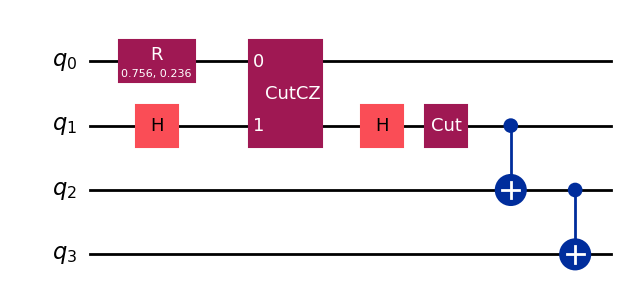
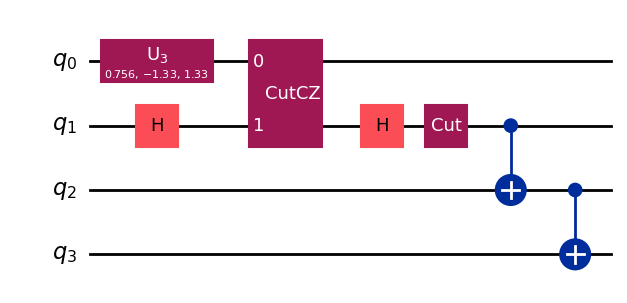
documentation

Changed region(s): [[0.1515, 0.1188, 0.3636, 0.297]]

diff --git a/docs/GateCuts.rst b/docs/GateCuts.rst
@@ -1,18 +1,19 @@
 Gate cuts
 =========
 
-Gate cuts can be used to cut multi-qubit gates instead of cutting wires. This is done by inserting special gate cut instructions into the circuit.
-Currently only CZ gate cuts are supported so special care needs to be taken to transform other gates into CZ gates before inserting the cuts.
+Gate cuts can be used to cut two-qubit gates instead of cutting wires. This is done by inserting special gate cut instructions into the circuit.
+Currently only CZ gate cuts are supported so all cut gates get transformed into cut CZ gates with appropriate transpilation.
 
 .. code:: python
+   from qiskit.circuit.library import CXGate
+   from qiskit import QuantumCircuit
+   from QCut import cutGate
 
    cut_circuit = QuantumCircuit(3)
    cut_circuit.h(0)
-   cut_circuit.h(1)
-   cut_circuit.append(cutCZ, [0,1])
-   cut_circuit.h(1)
+   cut_circuit.append(**cutGate(CXGate(), 0, 1)) 
    cut_circuit.cx(1,2)
 
-   cut_circuit.draw("mpl")
+   cut_circuit.decompose(["CutGate"]).draw("mpl")
 
 After this the circuit can be processed as usual with QCut (take a look at the Usage documentation for more details).

diff --git a/README.md b/README.md
@@ -69,7 +69,7 @@ uv sync
 
 ```python
 import QCut as ck
-from QCut import cut, cutCZ
+from QCut import cut, cutGate
 from qiskit import QuantumCircuit
 from qiskit_aer import AerSimulator
 from qiskit_aer.primitives import Estimator
@@ -98,13 +98,13 @@ circuit.draw("mpl")
 Note that here we don't insert any measurements. Measurements will be automatically handled by QCut.
 
 ```python
+from qiskit.circuit.library import CXGate
+
 cut_circuit = QuantumCircuit(4)
 
 mult = 1.635
 cut_circuit.r(mult*0.46262, mult*0.1446, 0)
-cut_circuit.h(1)
-cut_circuit.append(cutCZ, [0,1])
-cut_circuit.h(1)
+cut_circuit.append(**cutGate(CXGate(), 0, 1)) 
 cut_circuit.append(cut, [1])
 cut_circuit.cx(1,2)
 cut_circuit.cx(2,3)
@@ -112,7 +112,7 @@ cut_circuit.cx(2,3)
 cut_circuit.draw("mpl")
 ```
 
-**Note** that currently QCut only supports cutting Cz gates so transformation have to be done manually for the time being (hence the added H gates)
+**Note** that currently QCut only supports cutting Cz gates so cut gates get transpiled down to cutCZ gates (hence the added H gates)
 
 
 ![](./docs/_static/images/circ2.png)

diff --git a/docs/Usage.rst b/docs/Usage.rst
@@ -41,7 +41,7 @@ Basic usage
 .. code:: python
 
    import QCut as ck
-   from QCut import cut, cutCZ
+   from QCut import cut, cutGate
    from qiskit import QuantumCircuit
    from qiskit_aer import AerSimulator
    from qiskit_aer.primitives import Estimator
@@ -71,14 +71,14 @@ Note that here we don’t insert any measurements. Measurements will be
 automatically handled by QCut.
 
 .. code:: python
+   
+   from qiskit.circuit.library import CXGate
 
    cut_circuit = QuantumCircuit(4)
 
    mult = 1.635
    cut_circuit.r(mult*0.46262, mult*0.1446, 0)
-   cut_circuit.h(1)
-   cut_circuit.append(cutCZ, [0,1])
-   cut_circuit.h(1)
+   cut_circuit.append(**cutGate(CXGate(), 0, 1)) 
    cut_circuit.append(cut, [1])
    cut_circuit.cx(1,2)
    cut_circuit.cx(2,3)
